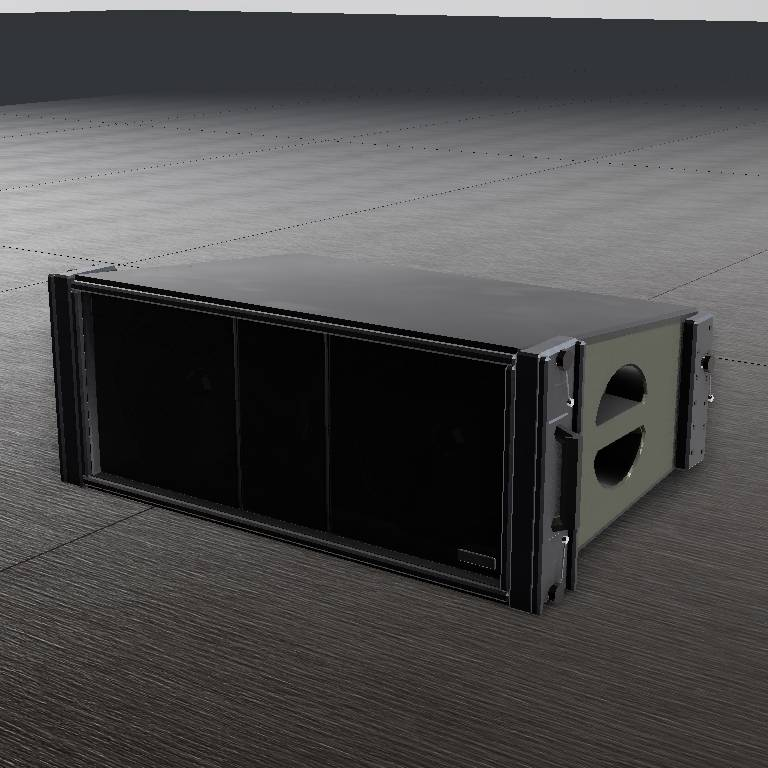
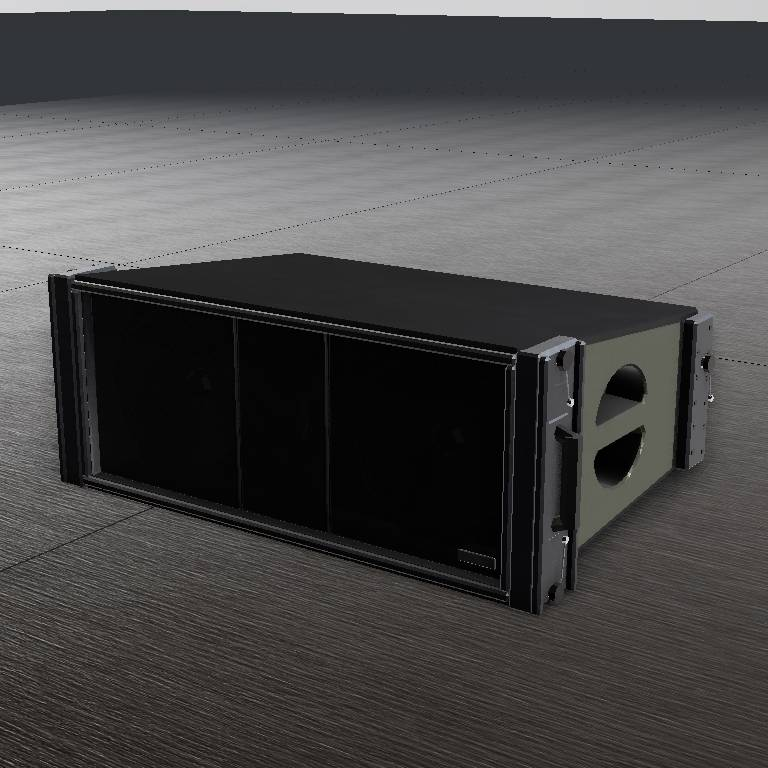
Round 10: the shell back to a matte speckled coat, no gloss on the top (Part of #5547)

Changed region(s): [[0.0938, 0.3125, 0.9062, 0.4688]]

diff --git a/packages/models/src/surfaces.ts b/packages/models/src/surfaces.ts
@@ -63,8 +63,8 @@ export const SURFACES = {
   ply: { tile: 0.6, tint: 0xffffff, roughness: 0.9, metalness: 0, color: true },
   /** Textured black plastic or polyurea: a moulded PA box, a cable's jacket. */
   plastic: { tile: 0.35, tint: 0x8e8e8e, roughness: 1, metalness: 0, color: true, normalScale: 0.5, wear: { chip: 0x6a6866, stipple: 1.0, scuff: 1, matte: 0.6 } },
-  /** A line array box's shell: satin dark-grey paint in an even fine pebble coat, lightly worn (no blotches on the top). */
-  coat: { dir: "plastic", tile: 0.35, tint: 0x8c8c8c, roughness: 0.8, metalness: 0, color: true, normalScale: 0.45, wear: { chip: 0x6a6866, stipple: 1.2, scuff: 0.35, matte: 0.5 } },
+  /** A line array box's shell: matte dark-grey paint in an even fine speckled pebble coat, lightly worn (no blotches, no gloss on the top). */
+  coat: { dir: "plastic", tile: 0.35, tint: 0x8c8c8c, roughness: 1, metalness: 0, color: true, normalScale: 0.45, wear: { chip: 0x6a6866, stipple: 1.4, scuff: 0.3, matte: 0.82 } },
   /** A line array box's side cheeks: an olive-grey pebble-coat panel (flat colour, no photo map), set off against the black shell. */
   cheek: { dir: "plastic", tile: 0.35, tint: 0x3a3c33, roughness: 0.92, metalness: 0, normalScale: 0.8, wear: { chip: 0x9a988c, stipple: 1.4, scuff: 0.2, matte: 0.75 } },
 } as const satisfies Record<string, Spec>;
